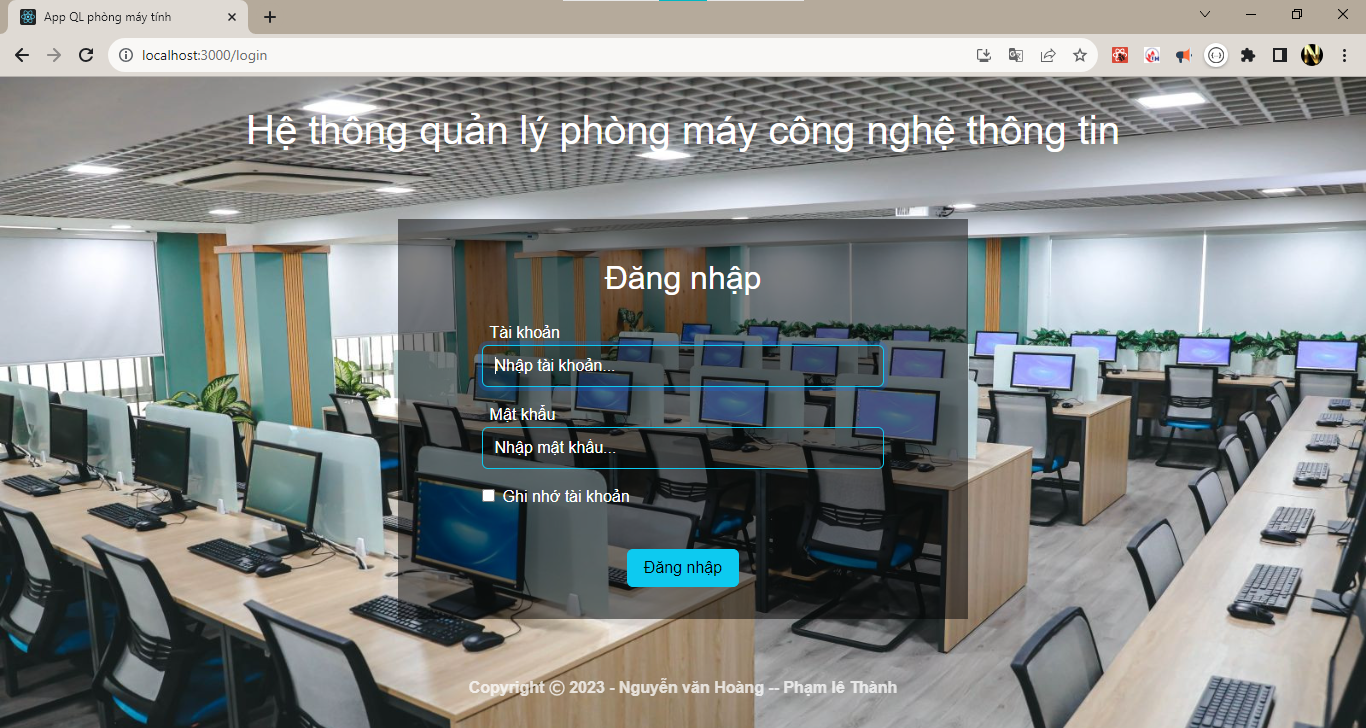
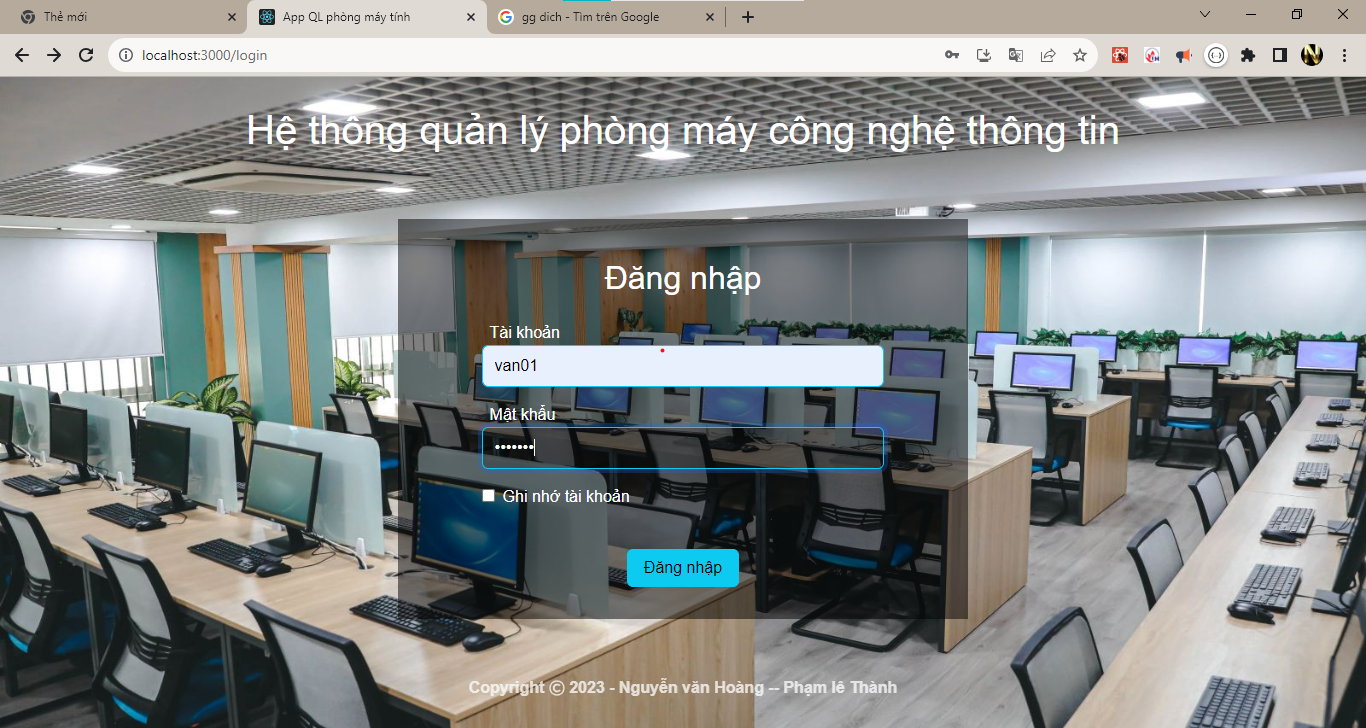
add getDangNhapApi() - chua co cookie

Changed region(s): [[0.3382, 0.4533, 0.6764, 0.544], [0.0, 0.0, 0.4919, 0.0604], [0.3382, 0.5742, 0.6457, 0.6648]]

diff --git a/src/redux/reducers/userReducer.jsx b/src/redux/reducers/userReducer.jsx
@@ -1,0 +1,57 @@
+//rxslice
+
+import { createSlice } from "@reduxjs/toolkit";
+import { ACCESS_TOKEN, USER_LOGIN, getStoreJSON, http, setCookie, setStore, setStoreJSON } from "../../util/config";
+import { history } from "../..";
+
+const initialState = {
+  userLogin: getStoreJSON(USER_LOGIN),
+};
+
+const userReducer = createSlice({
+  name: "userReducer",
+  initialState,
+  reducers: {
+    setUserLoginAction: (state, action) => {
+      state.userLogin = action.payload;
+    },
+  },
+});
+// exp nay de sử dụng theo cách 2
+export const { setUserLoginAction } = userReducer.actions;
+export default userReducer.reducer;
+
+export const getDangNhapApi = (userLogin) => {
+  // userLogin = { username: '', password: '', }
+
+  let user = {
+    tenDangNhap:userLogin.username,
+    matKhau:userLogin.password
+  }
+  return async (dispatch) => {
+    try {
+      let result = await http.post("/DangNhap", user);
+
+
+      //   setStore(ACCESS_TOKEN, result.data.content.accessToken);
+    //   setCookie(result.data.content.accessToken, 30, ACCESS_TOKEN);
+
+    // luu lai username
+    setStoreJSON(USER_LOGIN, result.data);
+
+    // dua len reducer
+    const action = setUserLoginAction(result.data);
+    dispatch(action);
+
+    history.push("/");
+    } catch (error) {
+      console.log(
+        "🚀 ~ file: userReducer.jsx:31 ~ returnasync ~ error:",
+        error
+      );
+
+      alert("Đăng nhập không thành công. Sai thông tin");
+      history.push("/login");
+    }
+  };
+};

diff --git a/src/pages/PageLogin/PageLogin.jsx b/src/pages/PageLogin/PageLogin.jsx
@@ -3,6 +3,7 @@ import React from "react";
 import * as Yup from 'yup'
 import { FaRegCopyright } from "react-icons/fa";
 import { useDispatch } from "react-redux";
+import { getDangNhapApi } from "../../redux/reducers/userReducer";
 
 export default function PageLogin() {
 
@@ -28,7 +29,7 @@ export default function PageLogin() {
             
     }),
     onSubmit:(value) => {
-      console.log("🚀 ~ file: PageLogin.jsx:17 ~ PageLogin ~ value:", value)
+      dispatch(getDangNhapApi(value));
       
     }
   })

diff --git a/README.md b/README.md
@@ -68,6 +68,7 @@
     - pageHome: su dung phan trang de thay the cho over_flow_auto
     - pageHome: chua data api local
     - pageLogin: chua formik - api local
+    - userReducer - getDangNhapApi() chua co cookie
     
 ## error
 ![image err](./AnhMinhHoa/img_error.png)
